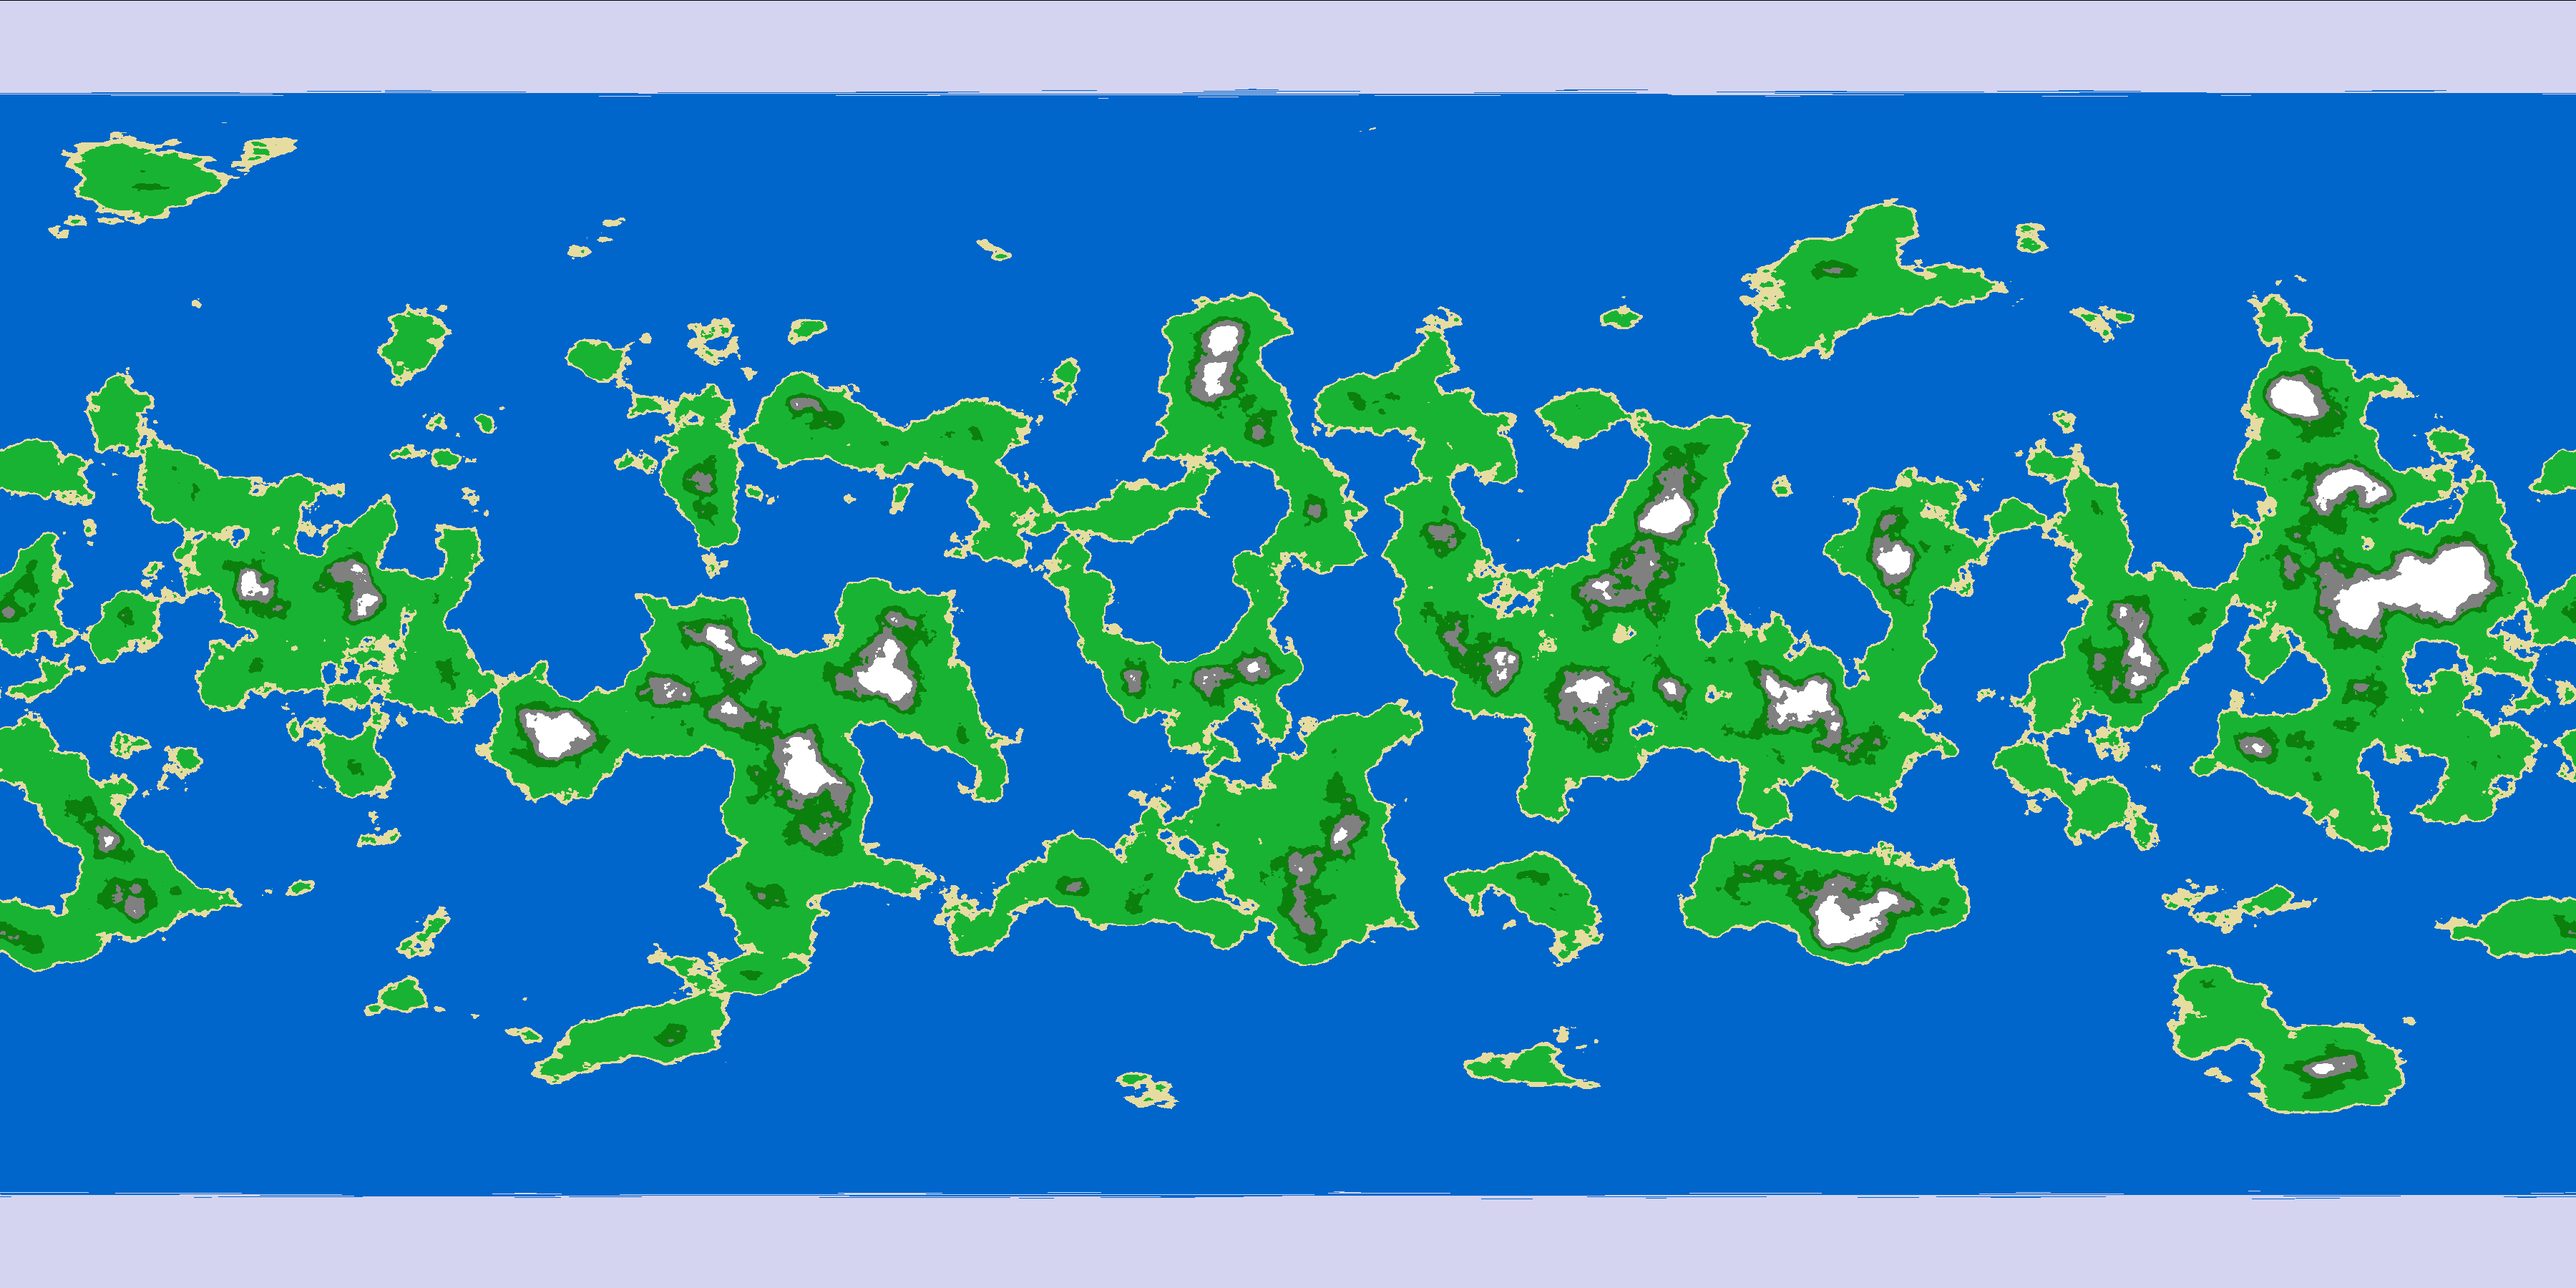
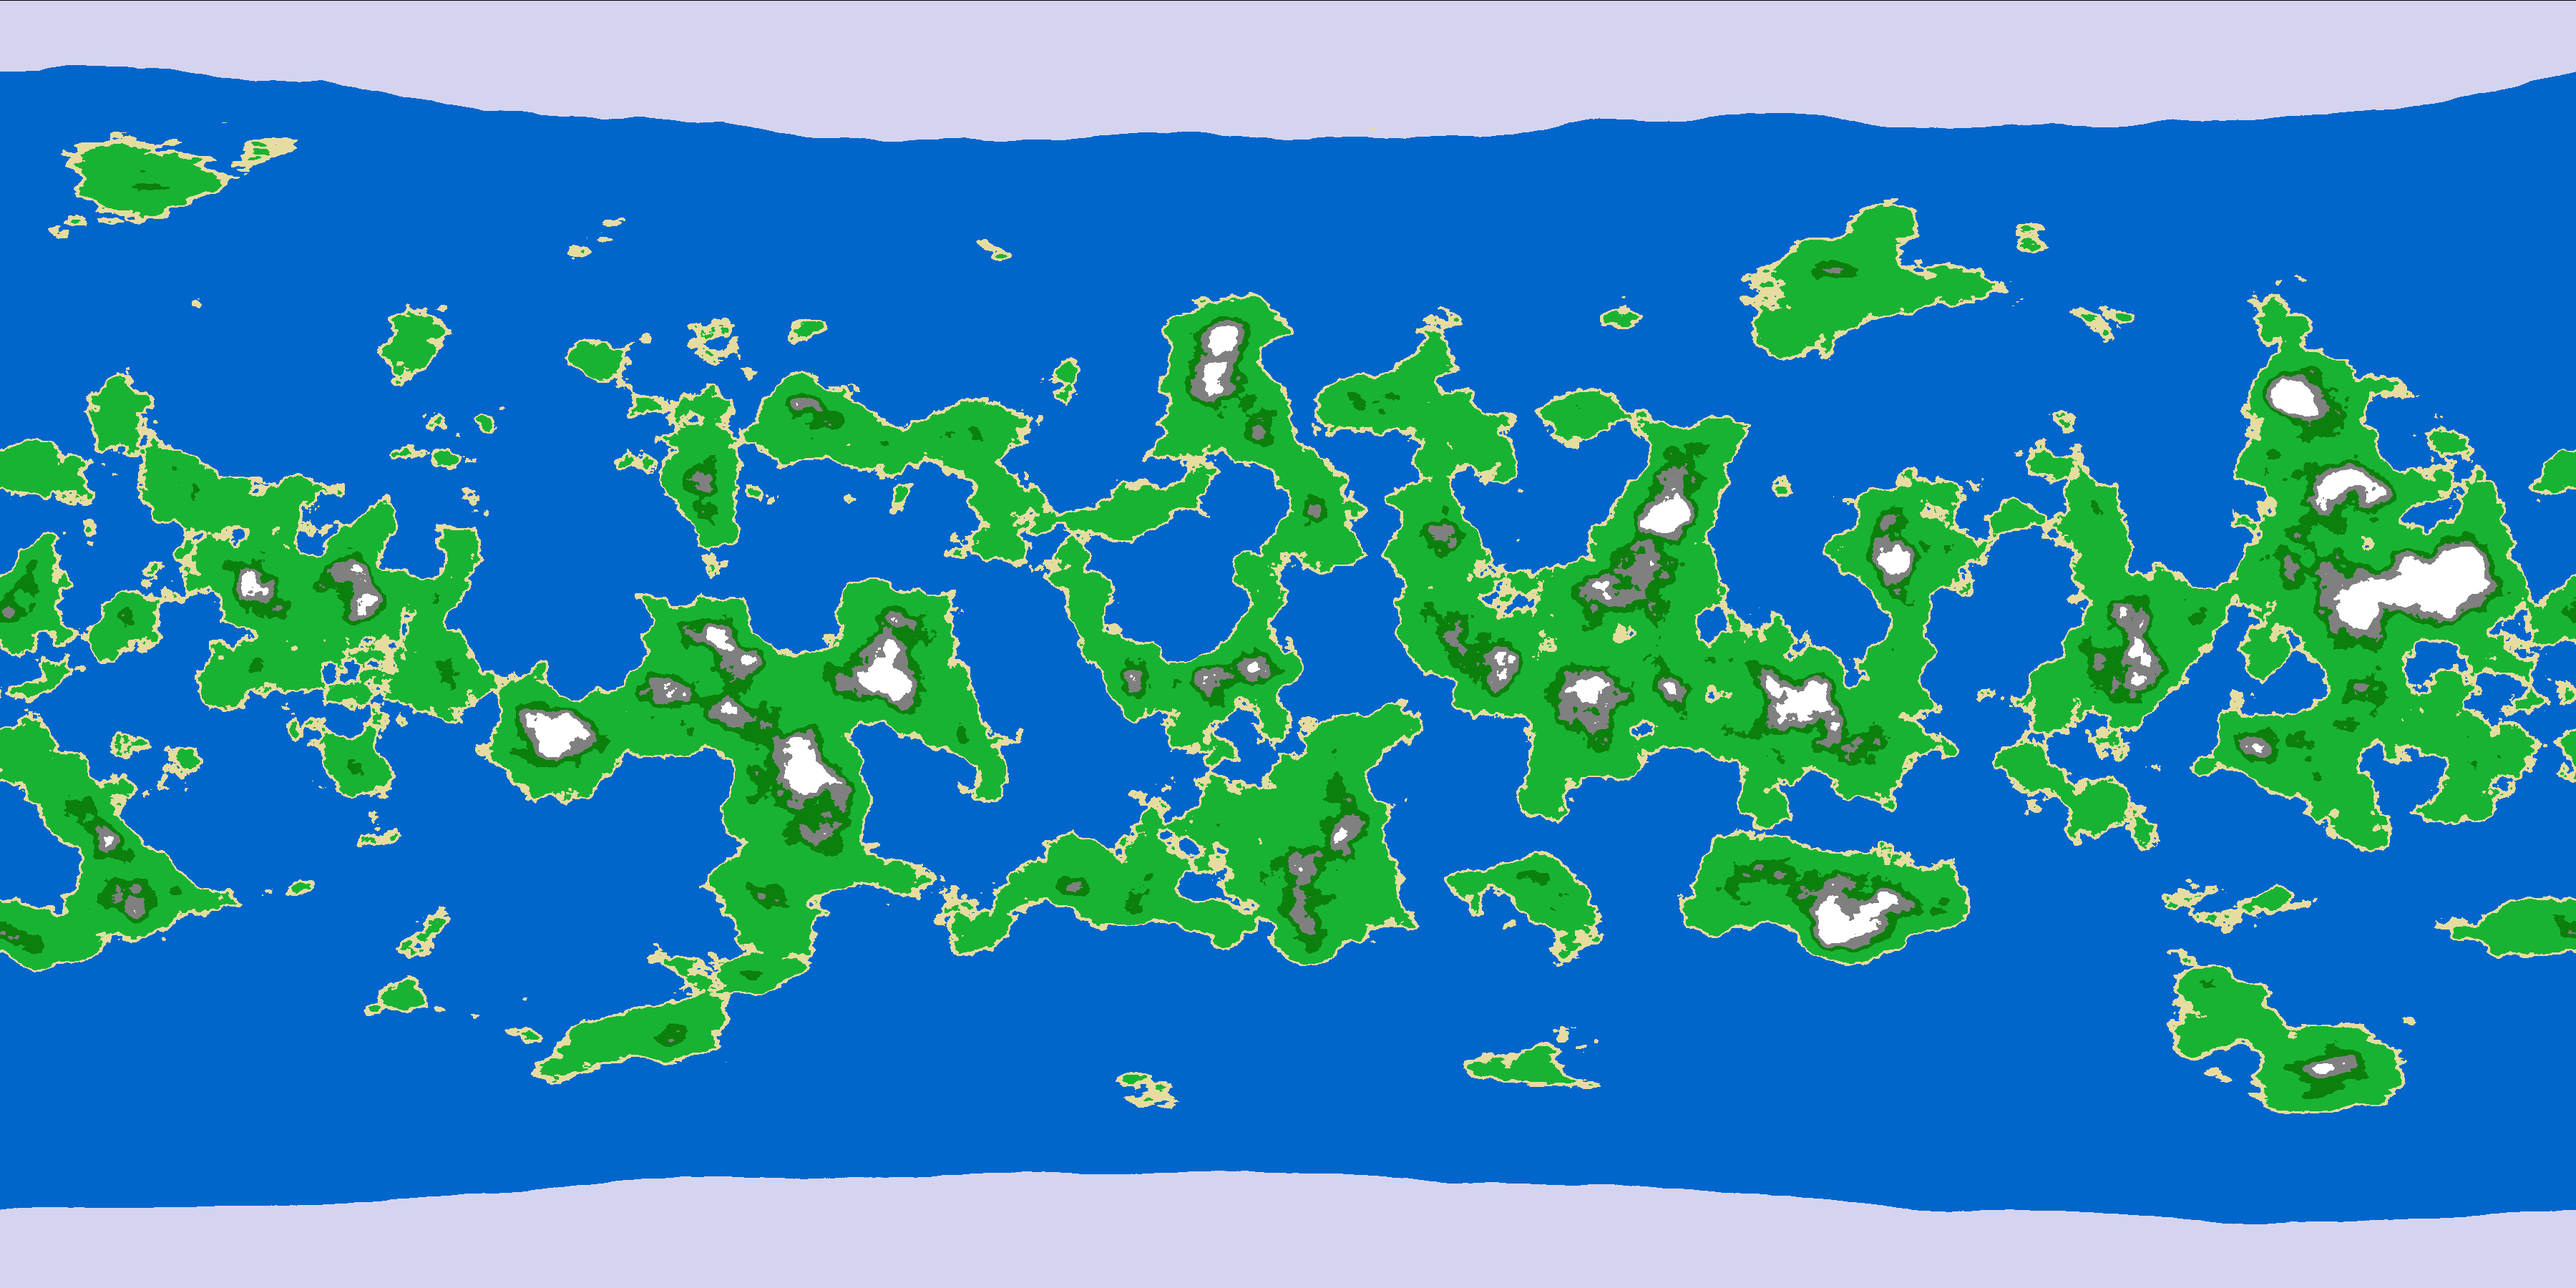
dev_v1.1 cold zone calculation

diff --git a/src/mapgen.c b/src/mapgen.c
@@ -92,6 +92,7 @@ typedef struct {
     float *noise1;
     WorkFbmOnSphereN wrkNoise2;
     float *noise2;
+    float *noise3;
 } WorkBiomColor;
 
 /** Global variable for the map data */
@@ -144,7 +145,7 @@ void mapgen_clean(void) {
         if (remove(MAPGEN_FILENAME) == 0) {
             g_map.filestatus = MAPGEN_OK;
             g_map.need_update = 0;
-            fprintf(stderr, "OK, There preview map file has been deleted: %s\n", MAPGEN_FILENAME);
+            fprintf(stderr, "OK, The previous map file has been deleted: %s\n", MAPGEN_FILENAME);
         } else {
             fprintf(stderr, "Failed to delete file %s: %s\n", MAPGEN_FILENAME, strerror(errno));
         }
@@ -485,6 +486,7 @@ void WorkBiomColor_init(WorkBiomColor* wrk, int count) {
     wrk->noise2 = (float*)malloc(sizeof(float) * count);
     WorkFbmOnSphereN_init(&wrk->wrkNoise1, count);
     WorkFbmOnSphereN_init(&wrk->wrkNoise2, count);
+    wrk->noise3 = (float*)malloc(sizeof(float) * count);
 }
 
 /** Biom Color assignment kernel cleanup */
@@ -501,8 +503,94 @@ void WorkBiomColor_free(WorkBiomColor* wrk) {
     WorkFbmOnSphereN_free(&wrk->wrkNoise2);
     free(wrk->noise1);
     free(wrk->noise2);
+    free(wrk->noise3);
     wrk->count = 0;
 }
+
+#define MAPGEN_LON_POINTS LON_POINTS
+float north_cutoff[MAPGEN_LON_POINTS];
+float south_cutoff[MAPGEN_LON_POINTS];
+
+#if (0)
+//Furier's algorithm, very bad looking
+typedef struct {
+    float amplitude;
+    float period;
+    float offset;
+} PolarCutoffParams;
+
+#define MAPGEN_POLAR_CUTOFFS 8
+PolarCutoffParams g_pcp_north[MAPGEN_POLAR_CUTOFFS];
+PolarCutoffParams g_pcp_south[MAPGEN_POLAR_CUTOFFS];
+
+void mapgen_init_polar_cutoffs(void) {
+    for (int i=0; i< MAPGEN_POLAR_CUTOFFS; i++) {
+        float falloff = 1.0f / (float)(1 + i);
+        g_pcp_north[i].amplitude = ((float)rand() / RAND_MAX) * falloff;
+        g_pcp_north[i].period  = 1 << i;
+        g_pcp_north[i].offset =  rand() % 314 / 100.0f;
+        g_pcp_south[i].amplitude = ((float)rand() / RAND_MAX) * falloff;
+        g_pcp_south[i].period  = 1 << i;
+        g_pcp_south[i].offset =  rand() % 314 / 100.0f;
+    }
+    for (int i = 0; i < MAPGEN_LON_POINTS; i++) {
+        float lon_ratio = (float)i / (MAPGEN_LON_POINTS - 1); // 0..1
+        float angle = lon_ratio * 2.0f * 3.14159265f;
+        float noise = 0.0f;
+        if (i>400; i<MAPGEN_LON_POINTS; i++) {
+            noise=
+
+        float noise = 0.0f;
+        for (int j = 0; j<MAPGEN_POLAR_CUTOFFS; j++) {
+            noise += g_pcp_north[j].amplitude * sinf(angle * g_pcp_north[j].period + g_pcp_north[j].offset);
+        }
+        float offset = noise * 2.0f;
+        north_cutoff[i] = 80.0f + offset;
+        noise = 0.0f;
+        for (int j = 0; j<MAPGEN_POLAR_CUTOFFS; j++) {
+            noise += g_pcp_south[j].amplitude * sinf(angle * g_pcp_south[j].period + g_pcp_south[j].offset);
+        }
+        offset = noise * 2.0f;
+        south_cutoff[i] = 79.0f + offset;
+    }
+}
+#else
+//Midpoint displacement fractal
+
+/* In case of simd needed, it would be a good idea to chunk multiple layers, similarly like the
+* loop unrolling technique, but shoud be taking consideration, the implemented calculation will be
+* summa 2^(k-1) times, where k is the number of layers.
+*/
+float midpoint_max= 88.0f;
+float midpoint_min= 70.0f;
+
+void midpoint_displace(float *cutoff, int start, int end, float amplitude) {
+    if (end - start <= 1) return;
+
+    int mid = (start + end) / 2;
+    float delta = ((float)rand() / RAND_MAX * 2.0f - 1.0f) * amplitude;
+    float base = (cutoff[start] + cutoff[end]) / 2.0f;
+    float candidate= base + delta;
+    if ((candidate > midpoint_max) || ( candidate < midpoint_min)) {
+        candidate = base - delta; // rebounce
+    }
+    cutoff[mid] = candidate;
+    midpoint_displace(cutoff, start, mid, amplitude * 0.5f);
+    midpoint_displace(cutoff, mid, end, amplitude * 0.5f);
+}
+void mapgen_init_a_polar_cutoff(float *cutoff, float base, float amplitude) {
+    cutoff[0] = base;
+    cutoff[MAPGEN_LON_POINTS - 1] = base;
+    midpoint_displace(cutoff, 0, MAPGEN_LON_POINTS - 1, amplitude);
+    // optional smoothing pass?
+}
+void mapgen_init_polar_cutoffs(void) {
+    // Amplitude shall be less than the max-min range, due to the rebounce algorithm.
+    mapgen_init_a_polar_cutoff(north_cutoff, 80.0f, 14.0f);
+    mapgen_init_a_polar_cutoff(south_cutoff, 79.0f, 8.0f);
+}
+#endif
+
 /** Compute the biome color for a given latitude band
  * This function computes the biome color for a given latitude band
  * using the provided elevation data and noise functions.
@@ -568,12 +656,34 @@ void WorkBiomColor_compute(
         wrk->cold_au8[i] = 0;
     }
     // poles, cold climate
+    /*
+    //this version was too slow, so I removed it. The next block uses a lookup table.
     if (pLatData->abslat > 70.0f) {
-        perlin_variation_n(pLatData->lat, lon_a, wrk->noise1, count);
+        //printf("lat: %f\n", pLatData->abslat);
+        perlin_variation_n(pLatData->lat, lon_a, wrk->noise3, count);
         for (int i = 0; i < count; i++) {
-            if (wrk->noise1[i] < (pLatData->abslat - 77.0f)) {
+            float noise = wrk->noise3[i] * 5.0f;
+            float threshold = 0.0f; //pLatData->abslat - 77.0f;
+            if (noise < threshold) {
                 wrk->cold_au8[i] = 1U;
-            }   
+            }
+            //printf("lon: %f, cold:%i, noise: %f threshold:%f, diff:%f\n",lon_a[i], wrk->cold_au8[i], noise, threshold, noise - threshold);
+        }
+    }*/
+    if (pLatData->abslat > 70.0f) {
+        int lon_index = (int)((lon_a[0] + 180.0f) / 360.0f * MAPGEN_LON_POINTS) % MAPGEN_LON_POINTS;
+        if (lat>0.0){  
+            for(int i = 0; i < count; i++) { 
+                if (pLatData->abslat > north_cutoff[lon_index++]) {
+                    wrk->cold_au8[i] = 1U;
+                }
+            }
+        }else{
+            for(int i = 0; i < count; i++) { 
+                if (pLatData->abslat > south_cutoff[lon_index++]) {
+                    wrk->cold_au8[i] = 1U;
+                }
+            }
         }
     }
     // set color
@@ -606,6 +716,8 @@ void WorkBiomColor_compute(
 void mapgen_generate(void) {
     int i, j;
     float buf_lat[BLOCK_SIZE], buf_lon[BLOCK_SIZE], buf_noise[BLOCK_SIZE];
+    mapgen_init_polar_cutoffs();
+
     WorkFbmOnSphereN wrk;
     WorkFbmOnSphereN_init(&wrk, BLOCK_SIZE);
     WorkBiomColor wrk_biomcolor;

diff --git a/src/perlin3d.h b/src/perlin3d.h
@@ -15,7 +15,7 @@
 #define PERLIN3D_H
 
 /** Number of points in a block used in computational kernels. */
-#define BLOCK_SIZE (180)
+#define BLOCK_SIZE (1800)
 
 /** Point structure.
  * This structure represents a point in 3D space with x, y, z coordinates and an additional value 'a'.
